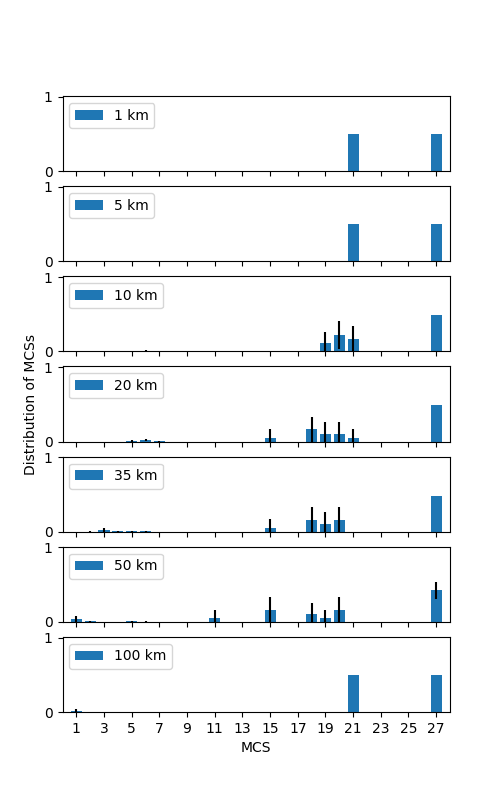
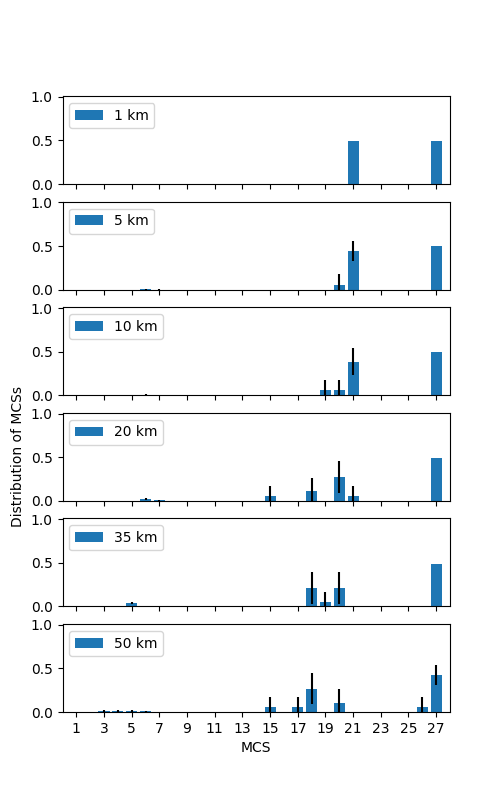
Remove 100km case from validation (issues with NaN)

diff --git a/src/lte/model/lte-eesm-error-model.cc b/src/lte/model/lte-eesm-error-model.cc
@@ -546,12 +546,12 @@ namespace ns3 {
         std::vector<double> tbs_snr_components;
         double errorRate = 1.0;
         {
-            volatile double n = 0;
+            double n = 0;
             int curr_cb = 0;
-            volatile double avg_cb_sinr = 0;
-            volatile double snrEff = 0;
-            volatile double cbler = 0;
-            volatile double beta = curr_cb < smallBeta ? beta5gBig : beta5gSmall;
+            double avg_cb_sinr = 0;
+            double snrEff = 0;
+            double cbler = 0;
+            double beta = curr_cb < smallBeta ? beta5gBig : beta5gSmall;
             unsigned cb_size = curr_cb < smallBeta ? big_cb_size : small_cb_size;
 
             // compute mean SINR of CBs based on PRBs SINR and fraction used
@@ -566,7 +566,8 @@ namespace ns3 {
                 if (cb_index != curr_cb)
                 {
                     // calculate the effective SNR and corresponding BLER
-                    snrEff = -beta * log(avg_cb_sinr / n);
+                    //snrEff = -beta*log(avg_cb_sinr/n);
+                    snrEff = 10*log10(avg_cb_sinr/n);
                     cbler = MappingMiBler(snrEff, mcs, cb_size, num, chan);
 
                     // then aggregate the error rate of the TB
@@ -581,12 +582,14 @@ namespace ns3 {
                 }
 
                 // calculate effective SNR fraction of the current PRB of a given CB
-                avg_cb_sinr += exp(-10 * log10(prb_sinr) / beta) * prb_fraction;
+                //avg_cb_sinr += exp(-10 * log10(prb_sinr) / beta) * prb_fraction;
+                avg_cb_sinr += prb_sinr * prb_fraction;
                 n += prb_fraction;
 
             }
             // calculate the effective SNR and corresponding BLER of the last CB
-            snrEff = -beta * log(avg_cb_sinr/n);
+            //snrEff = -beta*log(avg_cb_sinr/n);
+            snrEff = 10*log10(avg_cb_sinr/n);
             cbler = MappingMiBler(snrEff, mcs, cb_size, num, chan);
 
             // then aggregate the error rate of the TB

diff --git a/scratch/5grange_validation/bench_validation.py b/scratch/5grange_validation/bench_validation.py
@@ -299,7 +299,7 @@ if __name__ == "__main__":
     mimoModes = (mimoModes.TxDiversity, )  # mimoModes.SISO, mimoModes.SpatialMultiplexing)
     channel_models = ("CDL_D", "CDL_A",)  # "RANGE5G",
     forcedMaxMcs = (False, )  # False, True,)
-    distances = [ 1, 5, 10, 20, 35, 50, 100, ]  # 10, 20, 30, 40,
+    distances = [ 1, 5, 10, 20, 35, 50, ]  # 10, 20, 30, 40,
     batches = 10
 
     thread_parameters = []
